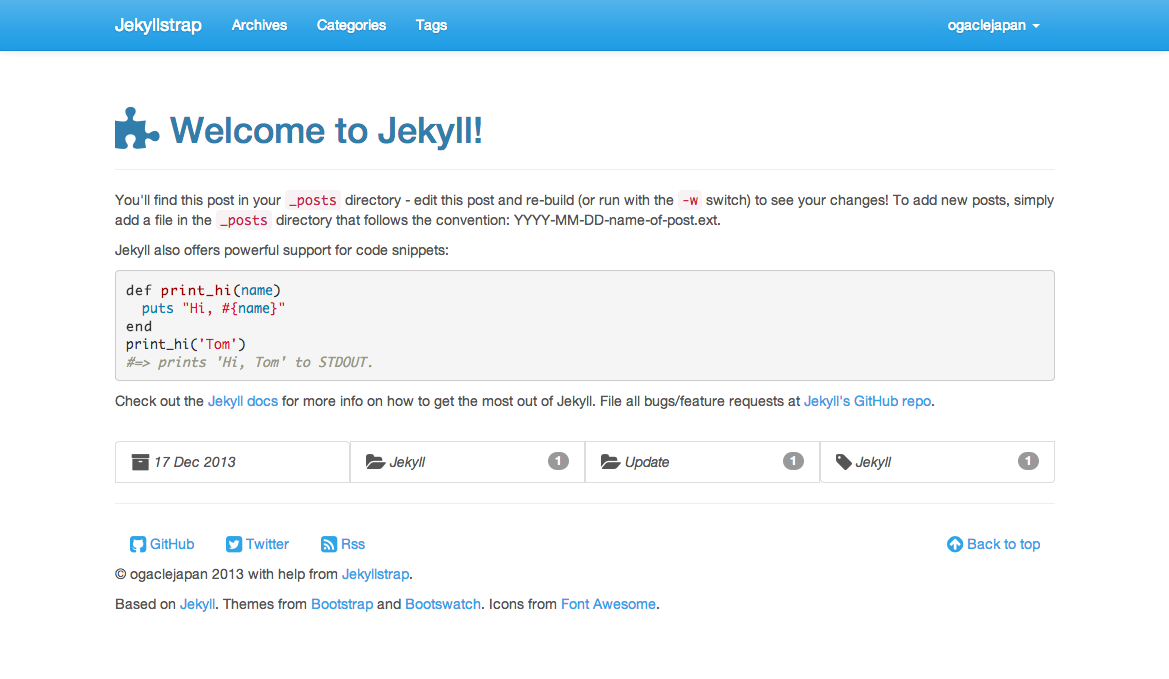
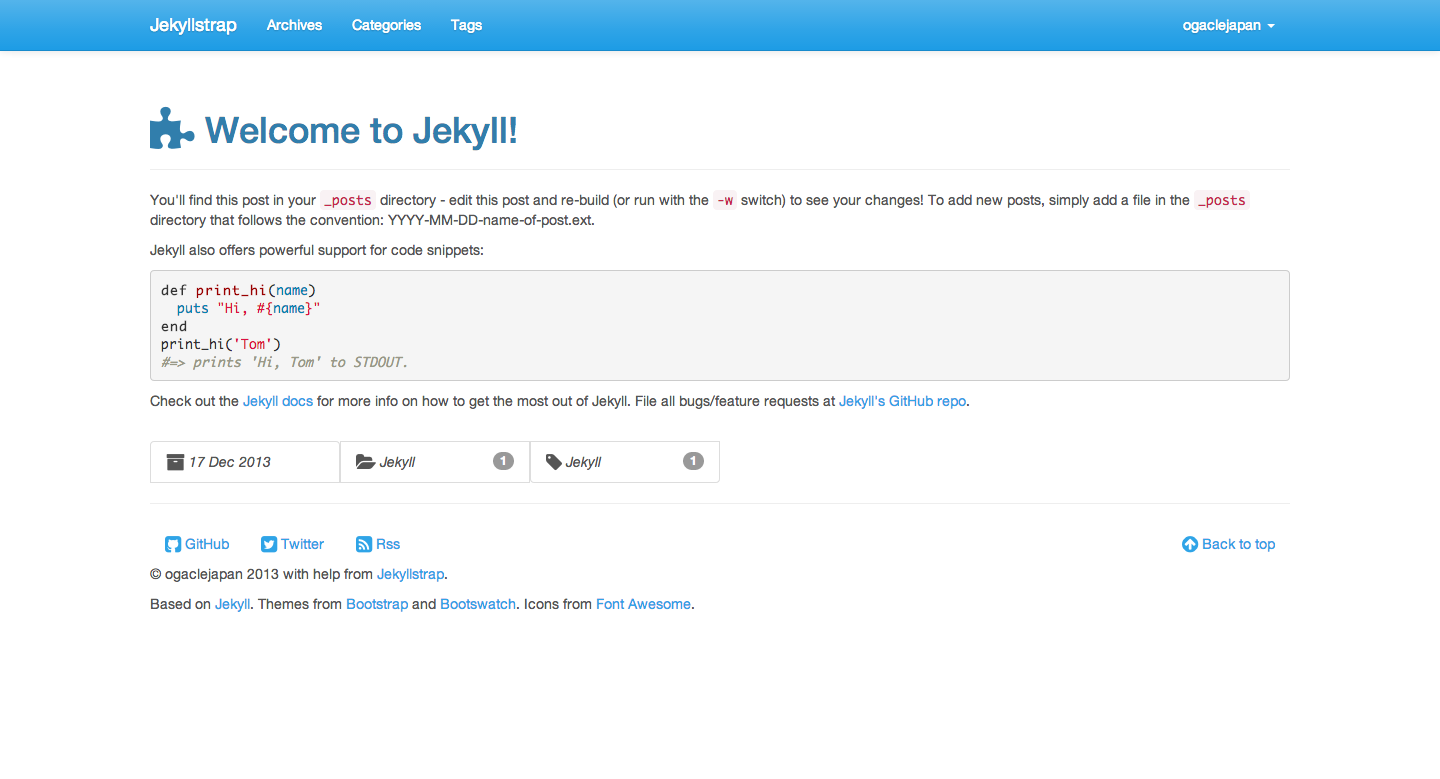
Optimized for Android blowser

diff --git a/_includes/post_footer.html b/_includes/post_footer.html
@@ -3,17 +3,17 @@
   <div class="col-md-12 col-sm-12 col-xs-12">
     <div class="page-footer">
       <div class="list-group">
-        <a href="{{ site.baseurl }}/archives#y-{{ page.date | date: '%Y' }}" class="list-group-item col-md-3 col-sm-6 col-xs-6">
+        <a href="{{ site.baseurl }}/archives#y-{{ page.date | date: '%Y' }}" class="list-group-item col-md-2 col-sm-4 col-xs-6">
           <i class="fa fa fa-archive fa-lg"></i> <em>{{ page.date | date_to_string }}</em>
         </a>
         {% for category in page.categories %}
-        <a href="{{ site.baseurl }}/categories#{{ category | handleize | downcase }}" class="list-group-item col-md-3 col-sm-6 col-xs-6">
+        <a href="{{ site.baseurl }}/categories#{{ category | handleize | downcase }}" class="list-group-item col-md-2 col-sm-4 col-xs-6">
           <i class="fa fa-folder-open fa-lg"></i> <em>{{ category | capitalize }}</em>
           <span class="badge">{{ site.categories[category] | size }}</span>
         </a>
         {% endfor %}
         {% for tag in page.tags %}
-        <a href="{{ site.baseurl }}/tags#{{ tag | handleize | downcase }}" class="list-group-item col-md-3 col-sm-6 col-xs-6">
+        <a href="{{ site.baseurl }}/tags#{{ tag | handleize | downcase }}" class="list-group-item col-md-2 col-sm-4 col-xs-6">
           <i class="fa fa-tag fa-lg"></i> <em>{{ tag }}</em>
           <span class="badge">{{ site.tags[tag] | size }}</span>
         </a>

diff --git a/categories.html b/categories.html
@@ -15,8 +15,8 @@ title: Categories
 	<div class="col-md-12 col-sm-12 col-xs-12">
 		<div class="list-group">
 			{% sorted_for category in site.categories sort_by:size %}
-			<a href="#{{ category[0] | handleize | downcase }}" class="list-group-item col-md-2 col-sm-3 col-xs-4">
-				<span class="badge">{{ category[1] | size }}</span>{{ category[0] | capitalize }}
+			<a href="#{{ category[0] | handleize | downcase }}" class="list-group-item col-md-2 col-sm-4 col-xs-6">
+				<em>{{ category[0] | capitalize }}</em><span class="badge">{{ category[1] | size }}</span>
 			</a>
 			{% endsorted_for %}
 		</div>

diff --git a/tags.html b/tags.html
@@ -15,8 +15,8 @@ title: Tags
 	<div class="col-md-12 col-sm-12 col-xs-12">
 		<div class="list-group">
 		{% sorted_for tag in site.tags sort_by:size %}
-		  <a href="#{{ tag[0] | handleize | downcase }}" class="list-group-item col-md-2 col-sm-3 col-xs-4">
-		  	<span class="badge">{{ tag[1] | size }}</span>{{ tag[0] }}
+		  <a href="#{{ tag[0] | handleize | downcase }}" class="list-group-item col-md-2 col-sm-4 col-xs-6">
+		  	<em>{{ tag[0] }}</em><span class="badge">{{ tag[1] | size }}</span>
 		  </a>
 		{% endsorted_for %}
 		</div>

diff --git a/_includes/footer.html b/_includes/footer.html
@@ -24,7 +24,7 @@
               <i class="fa fa-rss-square fa-lg"></i> Rss
             </a>
           </li>
-          <li class="pull-right">
+          <li class="pull-right visible-md visible-lg">
             <a href="#top">
               <i class="fa fa-arrow-circle-up fa-lg"></i> Back to top
             </a>
